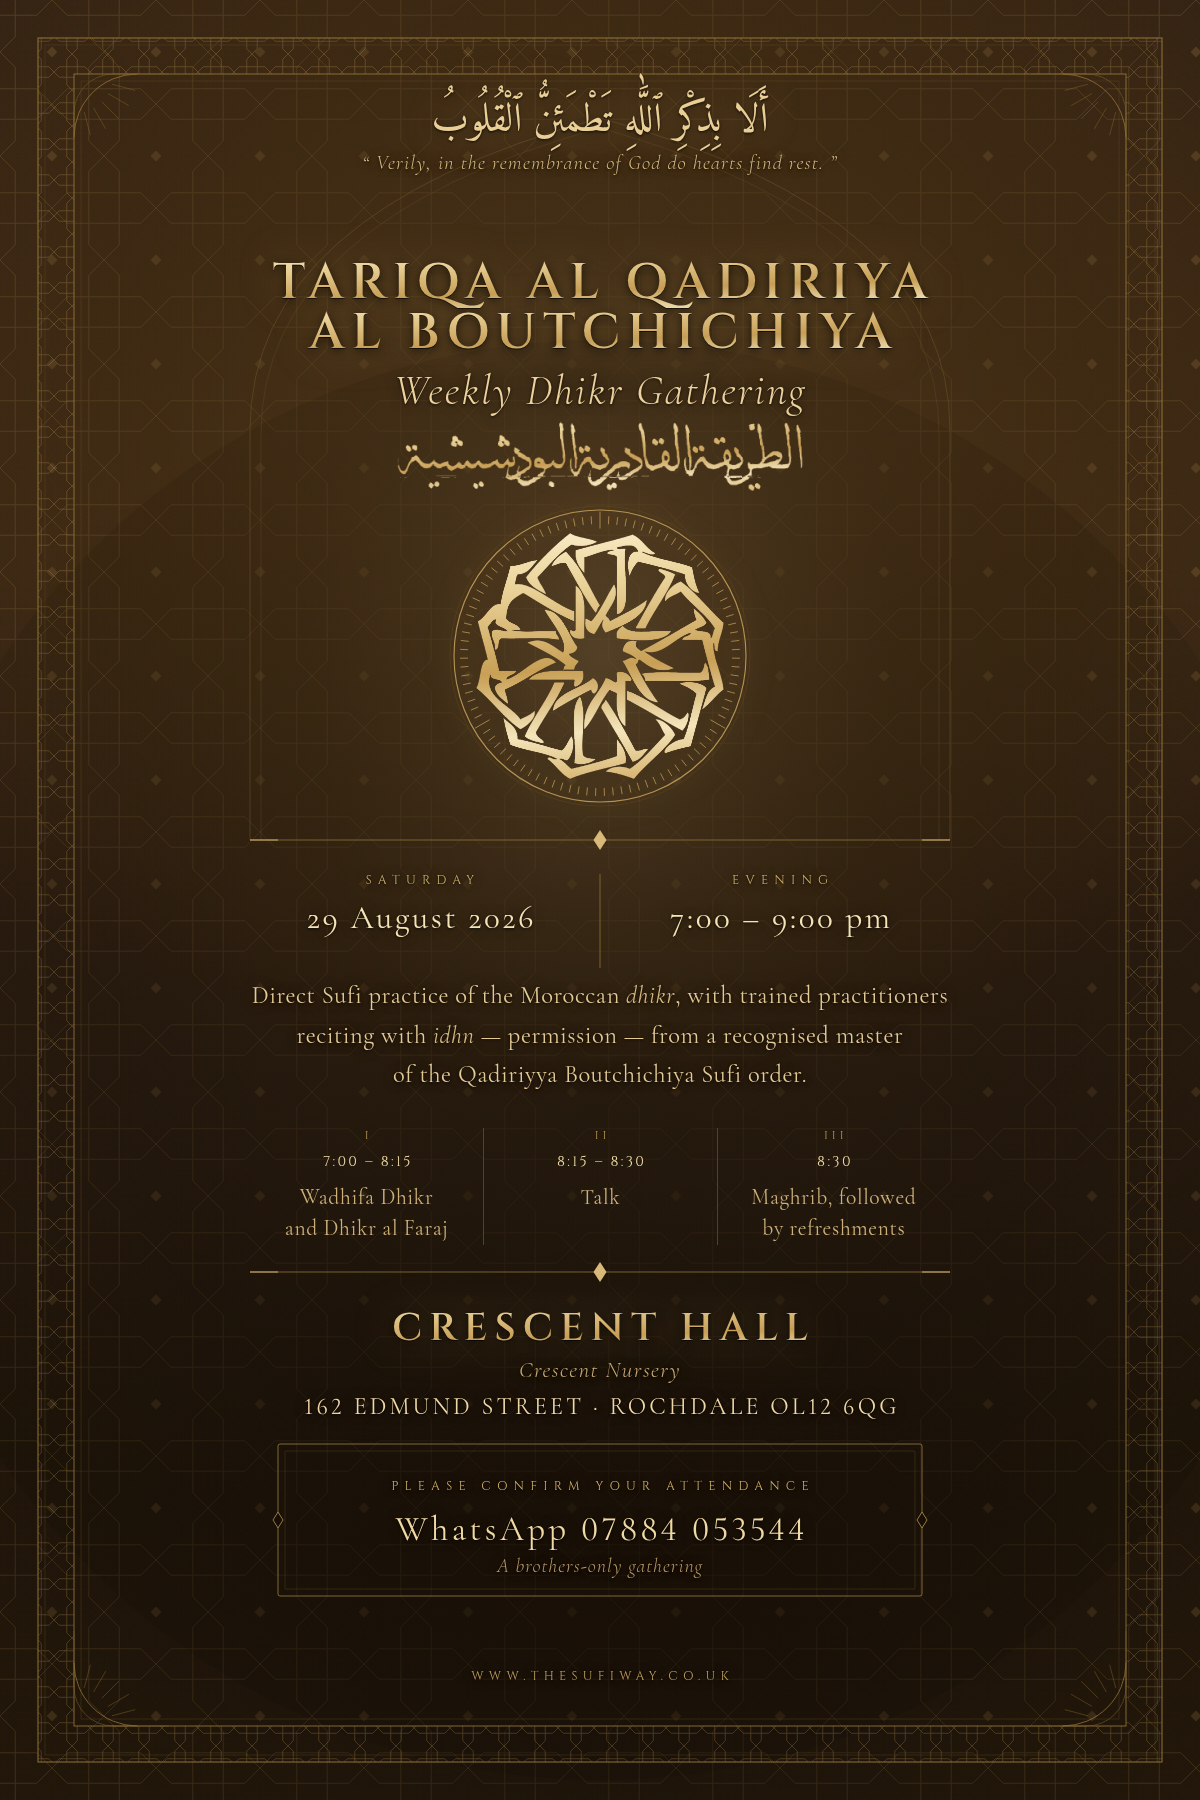
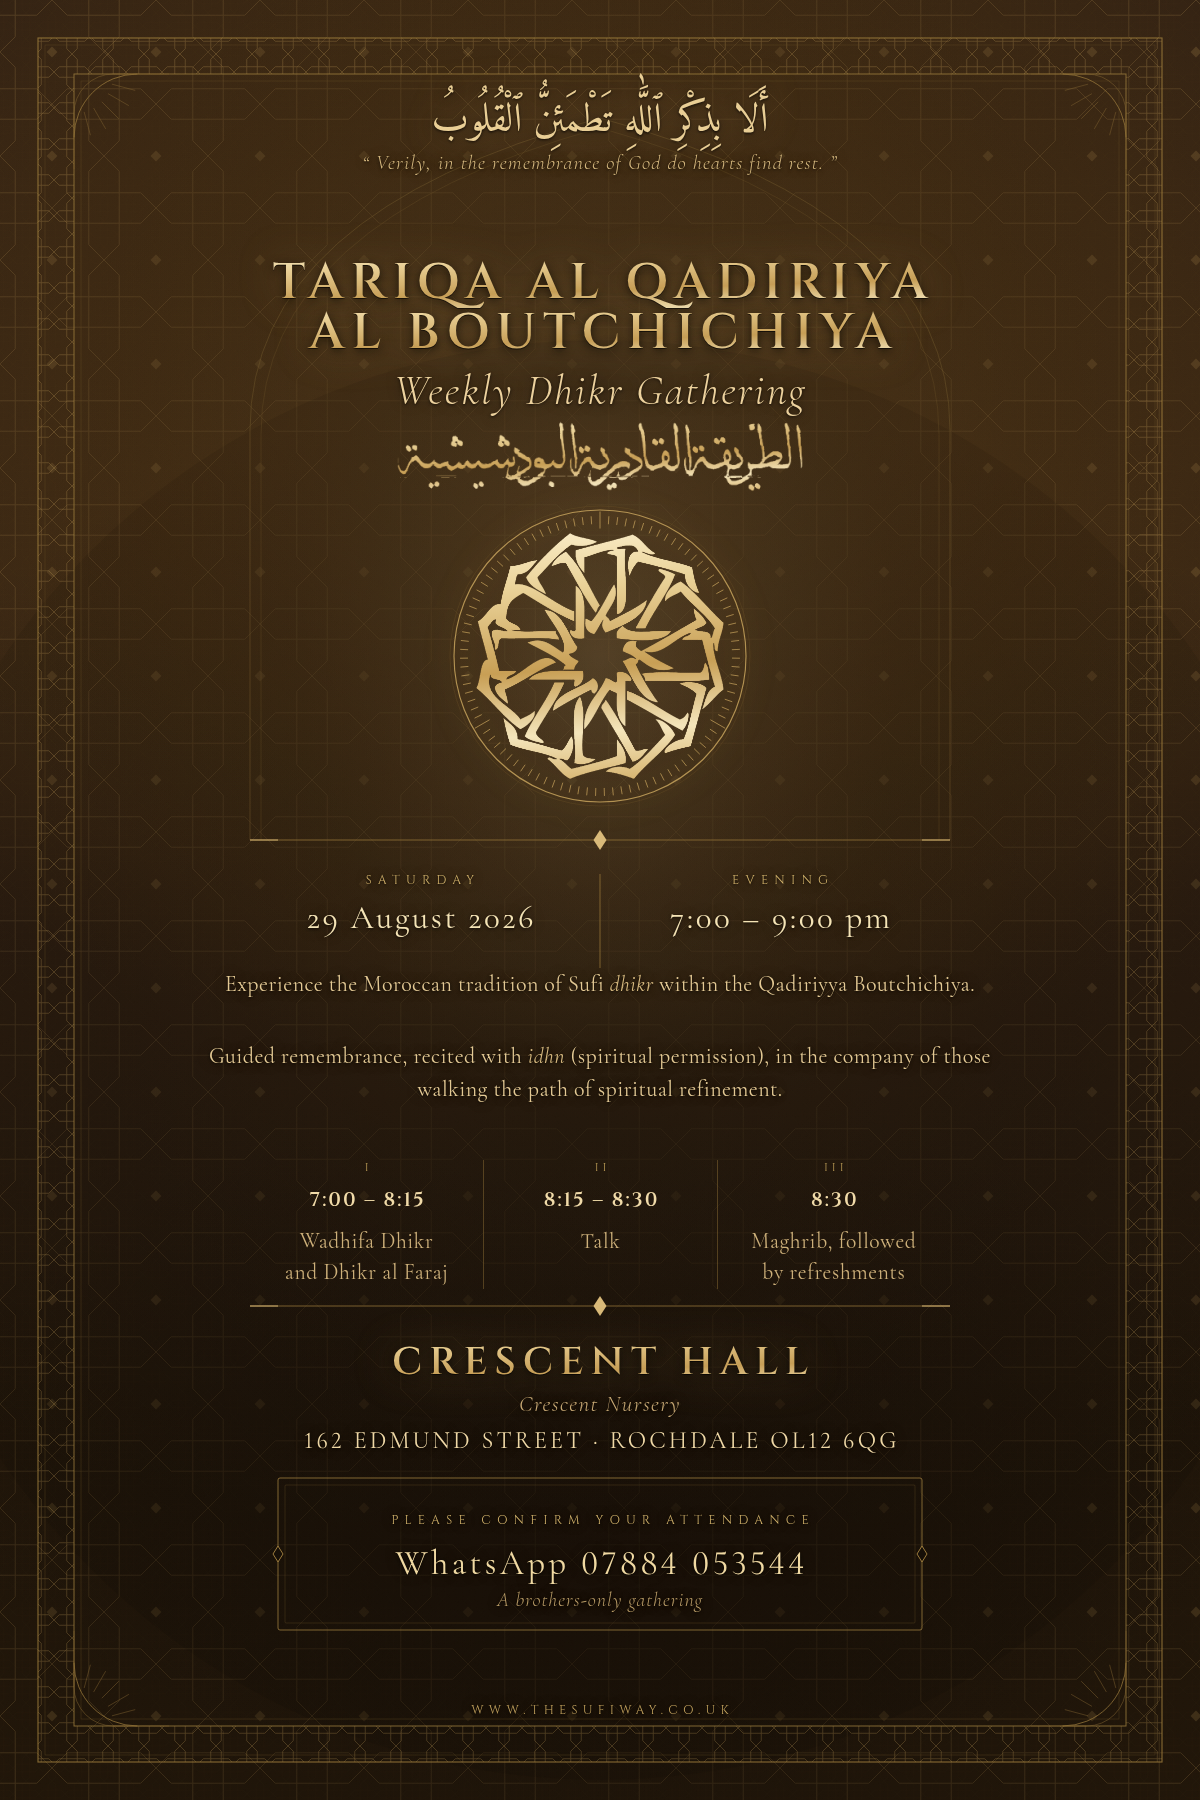
Rewrite the description text and make the timings stand out
Replaced the body copy with the new wording, set as two short paragraphs
at a slightly smaller size (24.5px -> 22px) in a wider column (820px)
so both fit clearly without the old fixed-width, hand-wrapped lines.

The programme's times (7:00-8:15 etc.) go from 14.5px to 20px, semibold,
tighter tracking, so they're the first thing the eye catches in each
column rather than a caption-sized afterthought.

The extra body-text height pushed the shared bottom block down ~34px
(date rule, WhatsApp box, venue, footer) to keep everything clear of the
inner frame line, verified against all four colourways.

Claude-Session: https://claude.ai/code/session_01W3RXmfEcLks2fUKiCDKANu

Changed region(s): [[0.2467, 0.6533, 0.7708, 0.8089], [0.185, 0.5289, 0.8017, 0.6222], [0.3392, 0.84, 0.6783, 0.9022]]

diff --git a/design/weekly-gathering/final/final.py b/design/weekly-gathering/final/final.py
@@ -139,11 +139,11 @@ html,body{{background:#000}}
   text-indent:.5em;color:{pal['lab']}}}
 .val{{font-family:Cormorant,serif;font-weight:400;font-size:33px;letter-spacing:.075em;
   text-indent:.075em;color:{pal['val']}}}
-.body{{font-family:Cormorant,serif;font-weight:400;font-size:24.5px;line-height:1.62;white-space:nowrap;
-  letter-spacing:.022em;color:{pal['body']}}}
+.body{{font-family:Cormorant,serif;font-weight:400;font-size:22px;line-height:1.5;
+  letter-spacing:.02em;color:{pal['body']}}}
 .body em{{font-style:italic;color:{pal['gloss']}}}
-.pt{{font-variant-numeric:lining-nums;font-family:Cinzel,serif;font-weight:400;font-size:14.5px;letter-spacing:.16em;
-  text-indent:.16em;color:{pal['pt']}}}
+.pt{{font-variant-numeric:lining-nums;font-family:Cinzel,serif;font-weight:600;font-size:20px;letter-spacing:.1em;
+  text-indent:.1em;color:{pal['pt']}}}
 .pd{{font-family:Cormorant,serif;font-weight:400;font-size:21.5px;line-height:1.46;
   letter-spacing:.03em;color:{pal['pd']}}}
 .rn{{font-family:Cinzel,serif;font-size:11.5px;letter-spacing:.34em;text-indent:.34em;color:{pal['rn']}}}
@@ -204,11 +204,11 @@ def frame_svg(pal, hero_extra):
   {v.rule(CX, v.ARCH_BASE, 350)}
   <line x1="{CX}" y1="{v.ARCH_BASE+34}" x2="{CX}" y2="{v.ARCH_BASE+128}" class="rule"/>
 
-  {v.rule(CX, 1272, 350)}
-  <rect x="{CX-322}" y="1444" width="644" height="152" rx="2" class="hair-3" stroke-width="1" fill="none"/>
-  <rect x="{CX-315}" y="1451" width="630" height="138" rx="1" class="hair-5" stroke-width="0.6" fill="none"/>
-  {v.lozenge(CX-322,1520,5,8,"fill-ink")}{v.lozenge(CX+322,1520,5,8,"fill-ink")}
-  {v.lozenge(CX-322,1520,5,8,"stroke-node")}{v.lozenge(CX+322,1520,5,8,"stroke-node")}
+  {v.rule(CX, 1306, 350)}
+  <rect x="{CX-322}" y="1478" width="644" height="152" rx="2" class="hair-3" stroke-width="1" fill="none"/>
+  <rect x="{CX-315}" y="1485" width="630" height="138" rx="1" class="hair-5" stroke-width="0.6" fill="none"/>
+  {v.lozenge(CX-322,1554,5,8,"fill-ink")}{v.lozenge(CX+322,1554,5,8,"fill-ink")}
+  {v.lozenge(CX-322,1554,5,8,"stroke-node")}{v.lozenge(CX+322,1554,5,8,"stroke-node")}
 </svg>
 <div class="grain"></div>
 '''
@@ -236,30 +236,32 @@ def bottom_html():
 <div class="at lab" style="top:{v.ARCH_BASE+32}px;left:{CX+10}px;width:340px">EVENING</div>
 <div class="at val" style="top:{v.ARCH_BASE+58}px;left:{CX+10}px;width:340px">7:00 – 9:00 pm</div>
 
-<div class="at body" style="top:976px;left:{CX-440}px;width:880px">
-Direct Sufi practice of the Moroccan <em>dhikr</em>, with trained practitioners<br>
-reciting with <em>idhn</em> — permission — from a recognised master<br>
-of the Qadiriyya Boutchichiya Sufi order.
+<div class="at body" style="top:968px;left:{CX-410}px;width:820px">
+Experience the Moroccan tradition of Sufi <em>dhikr</em> within the Qadiriyya Boutchichiya.
+</div>
+<div class="at body" style="top:1040px;left:{CX-410}px;width:820px">
+Guided remembrance, recited with <em>idhn</em> (spiritual permission), in the company of
+those walking the path of spiritual refinement.
 </div>
 
-<div class="cols" style="top:1128px">
-  <div><div class="rn">I</div><div class="pt" style="margin-top:9px">7:00 – 8:15</div>
-       <div class="pd" style="margin-top:11px">Wadhifa Dhikr<br>and Dhikr al&nbsp;Faraj</div></div>
-  <div><div class="rn">II</div><div class="pt" style="margin-top:9px">8:15 – 8:30</div>
-       <div class="pd" style="margin-top:11px">Talk</div></div>
-  <div><div class="rn">III</div><div class="pt" style="margin-top:9px">8:30</div>
-       <div class="pd" style="margin-top:11px">Maghrib, followed<br>by refreshments</div></div>
+<div class="cols" style="top:1160px">
+  <div><div class="rn">I</div><div class="pt" style="margin-top:11px">7:00 – 8:15</div>
+       <div class="pd" style="margin-top:13px">Wadhifa Dhikr<br>and Dhikr al&nbsp;Faraj</div></div>
+  <div><div class="rn">II</div><div class="pt" style="margin-top:11px">8:15 – 8:30</div>
+       <div class="pd" style="margin-top:13px">Talk</div></div>
+  <div><div class="rn">III</div><div class="pt" style="margin-top:11px">8:30</div>
+       <div class="pd" style="margin-top:13px">Maghrib, followed<br>by refreshments</div></div>
 </div>
 
-<div class="at venue gold" style="top:1302px">CRESCENT HALL</div>
-<div class="at vsub" style="top:1356px">Crescent Nursery</div>
-<div class="at addr" style="top:1392px">162 EDMUND STREET · ROCHDALE OL12 6QG</div>
+<div class="at venue gold" style="top:1336px">CRESCENT HALL</div>
+<div class="at vsub" style="top:1390px">Crescent Nursery</div>
+<div class="at addr" style="top:1426px">162 EDMUND STREET · ROCHDALE OL12 6QG</div>
 
-<div class="at lab" style="top:1478px">PLEASE CONFIRM YOUR ATTENDANCE</div>
-<div class="at wa" style="top:1508px">WhatsApp 07884 053544</div>
-<div class="at note" style="top:1554px">A brothers-only gathering</div>
+<div class="at lab" style="top:1512px">PLEASE CONFIRM YOUR ATTENDANCE</div>
+<div class="at wa" style="top:1542px">WhatsApp 07884 053544</div>
+<div class="at note" style="top:1588px">A brothers-only gathering</div>
 
-<div class="at url" style="top:1668px">WWW.THESUFIWAY.CO.UK</div>
+<div class="at url" style="top:1702px">WWW.THESUFIWAY.CO.UK</div>
 '''
 
 def render(pal, out_name, scale=1):
